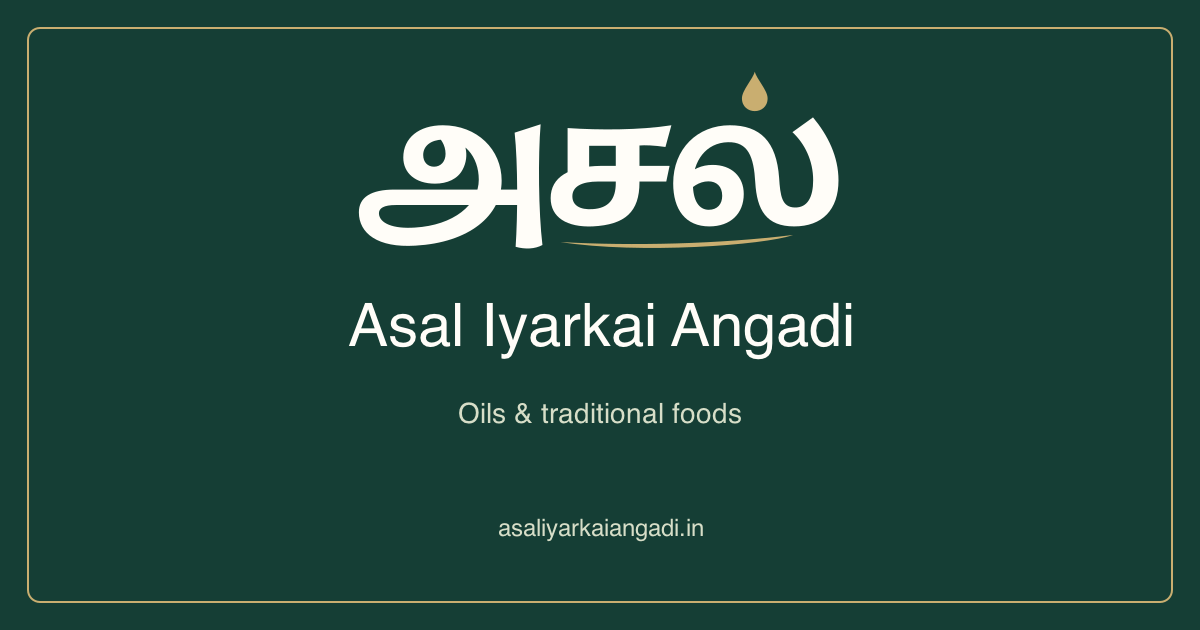
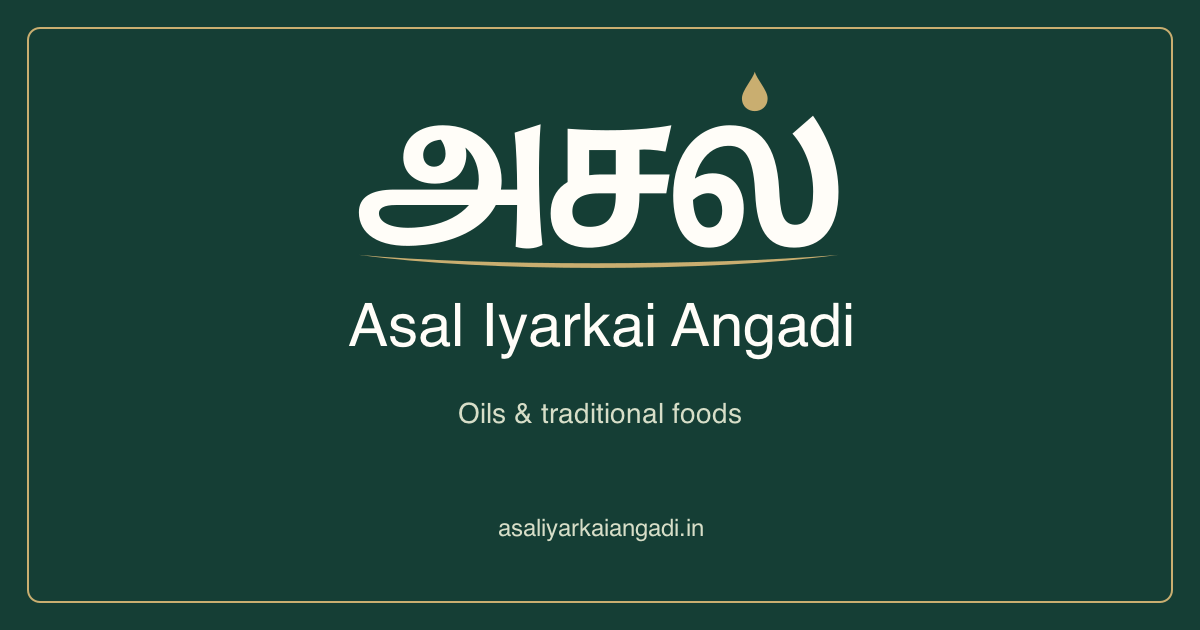
Refine full-card backgrounds and balance Tamil wordmark

Changed region(s): [[0.3392, 0.2111, 0.7092, 0.4524]]

diff --git a/src/app/heritage.css b/src/app/heritage.css
@@ -25,8 +25,8 @@
   .brand-intro .brand-word { font-size: var(--intro-word-size); }
   .brand-intro .brand-lettering .brand-oil-drop { visibility: hidden; }
   .brand-intro .brand-tagline { margin-top: 13px; font-size: .875rem; letter-spacing: 1px; }
-  /* Match the pulli's bounds in the 3040 × 1110 wordmark, not the wider lockup. */
-  .intro-oil-drip { position: absolute; top: calc(10 / 1110 * 100%); left: calc(2383 / 3040 * 100%); width: calc(156 / 3040 * 100%); height: calc(240 / 1110 * 100%); color: #a47b31; overflow: visible; transform-box: border-box; transform-origin: center bottom; animation: intro-drip 900ms 50ms both; }
+  /* Match the pulli's bounds in the 3040 × 1240 wordmark, not the wider lockup. */
+  .intro-oil-drip { position: absolute; top: calc(10 / 1240 * 100%); left: calc(2383 / 3040 * 100%); width: calc(156 / 3040 * 100%); height: calc(240 / 1240 * 100%); color: #a47b31; overflow: visible; transform-box: border-box; transform-origin: center bottom; animation: intro-drip 900ms 50ms both; }
   @keyframes intro-drip {
     0% { transform: translateY(calc(-50vh - 100%)); animation-timing-function: cubic-bezier(.4, 0, .8, .5); }
     78% { transform: translateY(0) scale(1); animation-timing-function: ease-out; }
@@ -43,19 +43,18 @@
     .intro-oil-drip { animation: none; }
   }
   .site-header { background: #fffdf8f7; }
-  .hero { grid-template-columns: 1.05fr 1fr; min-height: 490px; background: #f2eddf; border-radius: 4px; }
-  .hero-copy { padding: 46px 42px 38px; isolation: isolate; }
+  .hero { display: block; position: relative; isolation: isolate; min-height: 490px; background: #edf0dc; border-radius: 4px; }
+  .hero-backdrop { position: absolute; inset: 0; z-index: -1; overflow: hidden; pointer-events: none; user-select: none; }
+  .hero-backdrop > img { position: absolute; inset: -8px; width: calc(100% + 16px); max-width: none; height: calc(100% + 16px); object-fit: cover; object-position: center 58%; filter: blur(3px) saturate(.82); }
+  .hero-backdrop::after { content: ""; position: absolute; inset: 0; background: linear-gradient(90deg, #f8f7e8e6 0%, #f8f7e8c9 38%, #f2f2da52 72%, #f2f2da29 100%); }
+  .hero-copy { max-width: 610px; padding: 52px 48px 46px; isolation: isolate; }
   .hero-kolam { position: absolute; width: 88px; height: 88px; right: 24px; top: 18px; z-index: -1; }
   .hero-copy > .eyebrow { color: #77613d; font-size: .7rem; letter-spacing: 1.9px; }
   .hero-tamil { color: #756647; font-size: .85rem; margin-top: 17px; }
   .hero h1 { font-size: clamp(42px, 4.1vw, 60px); line-height: 1.15; letter-spacing: -1.9px; margin-block: 13px 20px; }
   .hero h1 em { color: #64744a; }
-  .hero-description { max-width: 365px; color: #5d6756; line-height: 1.85; }
-  .hero-footnote { color: #64705a; }
-  .hero-landscape { position: relative; min-height: 100%; overflow: hidden; }
-  .hero-landscape > img { width: 100%; height: 100%; position: absolute; inset: 0; object-fit: cover; object-position: 60% center; }
-  .hero-landscape figcaption { position: absolute; bottom: 0; inset-inline: 0; padding: 60px 28px 24px; color: white; font-family: var(--display); font-size: 1.5rem; background: linear-gradient(transparent, #202a17c7); }
-  .hero-landscape figcaption span { display: block; font-family: var(--sans); font-size: .7rem; margin-top: 5px; }
+  .hero-description { max-width: 420px; color: #3e503b; line-height: 1.85; }
+  .hero-footnote { color: #46573c; }
   .category-shelf { padding-block: 32px 12px; }
   .category-shelf-heading { display: flex; align-items: baseline; justify-content: space-between; gap: 20px; margin-bottom: 14px; }
   .category-shelf-heading h2 { font-size: clamp(23px, 2vw, 28px); letter-spacing: -.6px; }
@@ -112,8 +111,8 @@
   .product-category { color: #6d765e; font-size: .6875rem; letter-spacing: .3px; margin-bottom: 4px; }
   .product-add:active, .button:active { transform: translateY(1px); }
   .catalogue-note { color: #64705f; max-width: 860px; margin-inline: auto; }
-  .story-band { background: #f1f0e5; }
-  .story-inner { grid-template-columns: 1fr 1fr; align-items: center; gap: 72px; padding-block: 64px 45px; }
+  .story-band { margin-top: 56px; background: #f1f0e5; }
+  .story-inner { grid-template-columns: 1fr 1fr; align-items: center; gap: 72px; padding-block: 56px; }
   .story-photograph { position: relative; }
   .story-photograph > img { width: 100%; height: 360px; object-fit: cover; border-radius: 3px; }
   .story-photograph figcaption { font-size: .75rem; margin-top: 12px; color: #626b55; }
@@ -157,8 +156,8 @@
     .hero-kolam { width: 64px; height: 64px; right: 18px; top: 18px; }
     .hero-copy > .eyebrow, .hero-tamil { padding-right: 64px; }
     .hero h1 { font-size: clamp(36px, 9vw, 49px); letter-spacing: -1.3px; line-height: 1.18; }
-    .hero-landscape { min-height: 240px; }
-    .hero-landscape figcaption { font-size: 1.3rem; padding: 45px 24px 20px; }
+    .hero-backdrop > img { object-position: 54% center; }
+    .hero-backdrop::after { background: linear-gradient(110deg, #f8f7e8e6, #f8f7e8b8); }
     .category-shelf { padding-block: 26px 8px; }
     .category-shelf-heading { display: block; margin-bottom: 12px; }
     .category-shelf-heading p { margin-top: 6px; font-size: .75rem; }
@@ -182,7 +181,8 @@
     .product-card .save-button { width: 44px; height: 44px; }
     .list-view .product-info h3 { font-size: 1.125rem; }
     .list-view .product-tamil { font-size: .8rem; }
-    .story-inner { grid-template-columns: 1fr; padding-top: 38px; gap: 30px; }
+    .story-band { margin-top: 32px; }
+    .story-inner { grid-template-columns: 1fr; padding-block: 38px; gap: 30px; }
     .story-photograph > img { height: 280px; }
     .process-list { grid-template-columns: 1fr; gap: 20px; padding-bottom: 36px; }
     .process-list p { max-width: none; font-size: .875rem; }

diff --git a/src/components/Storefront.tsx b/src/components/Storefront.tsx
@@ -8,7 +8,7 @@ import { ArrowDown, ArrowRight, ArrowUpRight, Check, ChevronRight, Droplets, Hea
 import { products, productCategories, type Category, type Product } from "@/content/products";
 import { categoryImages } from "@/content/category-images";
 import { Catalogue } from "./Catalogue";
-import { Editorial } from "./Editorial";
+import { Editorial, NammalvarStory } from "./Editorial";
 import { StorefrontDialogs, type DialogState } from "./StorefrontDialogs";
 import { useCart } from "./CartProvider";
 import { Kolam, KolamDivider } from "./Kolam";
@@ -70,10 +70,11 @@ export default function Storefront({ initialCategory = "all" }: { initialCategor
     <main id="main">
       <div className="section-wrap"><nav className="breadcrumb" aria-label="Breadcrumb"><a href="/">Home</a><ChevronRight size={12} /><span aria-current="page">{isWoodOilsPage ? "Wood-pressed Oils" : "Our products"}</span></nav>
         <section className="hero" aria-labelledby="hero-title">
+          <div className="hero-backdrop" aria-hidden="true"><img src="/images/editorial/paddy-field.webp" alt="" width="1024" height="683" fetchPriority="high" /></div>
           <div className="hero-copy"><Kolam className="hero-kolam" /><p className="eyebrow">{isWoodOilsPage ? siteName : "FROM OUR PANTRY TO YOURS"}</p><p className="hero-tamil" lang="ta">அசல் இயற்கை அங்காடி</p><h1 id="hero-title">{isWoodOilsPage ? <>Wood-pressed oils.<br /><em>Rooted in tradition.</em></> : <>Asal Iyarkai<br /><em>Angadi.</em></>}</h1><p className="hero-description">{isWoodOilsPage ? "Wood-pressed groundnut, sesame and coconut oils, prepared using a wooden press. Explore listed prices and packs from 500 ml to 5 litres." : "Asal Iyarkai Angadi (Asaliyarkaiangadi) brings together cold-pressed and wood-pressed oils, ghee, masala and traditional rice. Everyday essentials with a little taste of home."}</p><a href="#collection" className="button button-green" onClick={() => setCategory(initialCategory)}>Explore the collection <ArrowDown size={17} /></a><div className="hero-footnote"><span className="small-leaf"><Leaf size={16} strokeWidth={1.4} /></span><span>Simple ingredients. Familiar rituals.</span></div></div>
-          <figure className="hero-landscape"><img src="/images/editorial/fields.webp" alt="Golden fields in the soft light of the setting sun" width="1400" height="788" fetchPriority="high" /><figcaption>Rooted in the everyday.<span>Landscape inspiration</span></figcaption></figure>
         </section>
       </div>
+      <NammalvarStory onGuide={guide} />
       <section className="category-shelf section-wrap" aria-labelledby="categories-title">
         <div className="category-shelf-heading"><h2 id="categories-title">Shop by category</h2><p>Find your everyday favourites.</p></div>
         <nav className="category-shortcuts" aria-label="Shop by category">
@@ -89,7 +90,7 @@ export default function Storefront({ initialCategory = "all" }: { initialCategor
       <div className="qualities section-wrap"><div><Sprout /><span>Cold-pressed oils</span></div><span className="quality-divider" /><div><Droplets /><span>Traditional rice varieties</span></div><span className="quality-divider" /><div><Sun /><span>Everyday kitchen essentials</span></div><span className="quality-divider" /><div><Heart /><span>Goodness, kept simple</span></div></div>
       <KolamDivider className="collection-divider" />
       <Catalogue saved={saved} onSave={toggleSaved} onExplore={explore} onGuide={guide} category={category} onCategory={setCategory} />
-      <Editorial onGuide={guide} />
+      <Editorial />
     </main>
     <footer className="site-footer"><div className="footer-inner section-wrap"><div className="footer-brand"><a href="/" className="brand footer-brand-mark" aria-label={`${siteName} home`}><BrandWordmark /></a><p>{siteName}<br />Nature, uncomplicated.</p><span className="footer-leaf"><Leaf size={17} /> Back to what’s real.</span></div><div className="footer-links"><h3>Find your goodness</h3>{productCategories.map(({ id, label }) => id === "wood-oils" ? <a key={id} href={woodOilsPath}>{label}</a> : <button key={id} onClick={() => goToCollection(id)}>{label}</button>)}</div><div className="footer-links"><h3>A little about us</h3><a href="#our-way">The Asal way</a><a href="#questions">Good to know</a><button onClick={() => setDialog({ type: "about" })}>About this store</button><button onClick={() => setDialog({ type: "ordering" })}>Ordering & delivery</button><a href="/credits">Image credits</a></div><div className="footer-signoff"><Kolam /><p>Good food.<br />Simple rituals.<br /><em>A little more real.</em></p></div></div><div className="footer-bottom section-wrap"><span>© 2026 {siteName}. A fresh beginning.</span><span>Thoughtfully designed. Rooted in nature.</span><span className="preview-tag"><span />Store preview</span><span className="footer-credit">Powered by <strong>Adplix Media</strong><img src="/adplix.svg" alt="" width="18" height="18" /></span></div></footer>
     <div className="sr-only" aria-live="polite">{announcement}</div>

diff --git a/src/app/imagery.css b/src/app/imagery.css
@@ -1,4 +1,4 @@
-/* Local, pre-optimized imagery. Preserve full subjects and honest captions. */
+/* Local, pre-optimized imagery. Product photos stay sharp; heritage art is decorative. */
 @layer components {
   .product-artwork { position: relative; display: block; width: 100%; height: 100%; overflow: hidden; background: #f6f2ea; }
   .product-artwork > img { display: block; width: 100%; height: 100%; object-fit: contain; }
@@ -22,33 +22,23 @@
   .story-photograph figcaption span { font-size: .6875rem; }
   .story-photograph a { text-decoration: underline; text-underline-offset: 3px; }
   .story-copy > .story-context { font-size: .6875rem; line-height: 1.7; margin-bottom: 0; }
-  /* Small discoveries within the catalogue, never a separate gallery. */
-  .catalogue-art { min-width: 0; width: 100%; align-self: center; }
-  .catalogue-art img { display: block; width: 100%; height: auto; aspect-ratio: 2528 / 1696; object-fit: contain; border-radius: 3px; }
-  .catalogue-art figcaption { margin-top: 10px; color: var(--muted); font-size: .6875rem; line-height: 1.7; }
-  .category-section-wood-oils .category-section-heading { align-items: center; }
-  .category-section-wood-oils .category-heading-copy { flex: 1; }
-  .catalogue-art-chekku { flex: 0 0 264px; max-width: 264px; margin-inline-start: 32px; }
-  .catalogue-art-bilona { grid-column: span 2; max-width: 400px; justify-self: center; }
-  .catalogue-art-cattle { max-width: 236px; justify-self: end; align-self: end; padding-bottom: 32px; }
-  .list-view .catalogue-art { grid-column: auto; max-width: 280px; padding: 16px; justify-self: center; align-self: center; }
+  /* A quiet wash behind each related section, never a product-grid item. */
+  .category-section { position: relative; isolation: isolate; }
+  .category-backdrop { position: absolute; inset: -20px -24px; z-index: -1; overflow: hidden; border-radius: 4px; pointer-events: none; user-select: none; }
+  .category-backdrop > img { display: block; position: absolute; inset: -8px; width: calc(100% + 16px); max-width: none; height: calc(100% + 16px); object-fit: cover; object-position: center; filter: blur(3px) saturate(.7); opacity: .44; }
+  .category-backdrop::after { content: ""; position: absolute; inset: 0; background: linear-gradient(90deg, #fffdf8f5 0%, #fffdf8b8 40%, #fffdf830 100%), linear-gradient(0deg, var(--paper), transparent 18%, transparent 82%, var(--paper)); }
+  .category-backdrop-bilona > img { object-position: center 58%; }
+  .category-backdrop-cattle > img { object-position: center 60%; }
 }
 
 @layer responsive {
-  @media (min-width: 701px) and (max-width: 960px) {
-    .product-grid:not(.list-view) .catalogue-art-cattle { grid-column: 2 / span 2; max-width: 264px; padding-bottom: 0; }
-  }
   @media (max-width: 700px) {
     .product-media { aspect-ratio: 4 / 3; }
     .product-artwork.detail-image-space { min-height: 240px; height: 240px; }
     .product-artwork.cart-image-space { height: 86px; }
-    .category-section-wood-oils .category-section-heading { flex-wrap: wrap; gap: 18px 12px; }
-    .category-section-wood-oils .category-heading-copy { flex-basis: calc(100% - 90px); }
-    .catalogue-art-chekku { flex-basis: 180px; max-width: 180px; margin-left: auto; }
-    .catalogue-art-bilona { grid-column: auto; }
-    .catalogue-art-cattle { align-self: center; padding-bottom: 0; }
-    .catalogue-art figcaption { font-size: .625rem; }
-    .list-view .catalogue-art { max-width: 240px; justify-self: end; padding: 8px 0 12px; }
+    .category-backdrop { inset: -16px -12px; }
+    .category-backdrop > img { opacity: .3; }
+    .category-backdrop::after { background: linear-gradient(90deg, #fffdf8e6, #fffdf866), linear-gradient(0deg, var(--paper), transparent 20%, transparent 80%, var(--paper)); }
     .story-photograph > img { height: auto; }
     .story-copy > .story-context { font-size: .6875rem; }
   }

diff --git a/src/content/brand-artwork.ts b/src/content/brand-artwork.ts
@@ -1,19 +1,21 @@
 /**
  * Asal's bespoke Tamil lettering: broad bowls, tapered joins and cut terminals.
  * Shared by the live wordmark and the generated social/logo artwork.
- * Keep the 3040 × 1110 canvas and pulli coordinates stable: the intro drop
- * lands in this exact position (see heritage.css and brand.test.mjs).
+ * The 3040 × 1240 canvas leaves room for a full-width curved underline.
+ * Keep the pulli coordinates stable: the intro drop lands in this exact
+ * position (see heritage.css and brand.test.mjs).
  */
 export const brandLetterPaths = [
   // அ — a generous lower bowl and a flared, gently bowed upright.
   "M397 1068C169 1082 54 994 54 865C54 774 127 727 271 727H1059L1059 821H278C206 821 174 840 176 874C180 932 261 967 395 958C629 944 783 820 783 667C783 526 693 420 564 423C492 425 445 461 445 517C445 561 473 588 511 588C552 588 581 556 581 510C581 454 549 414 522 391L626 362C707 418 729 523 685 605C655 663 591 691 517 691C398 691 324 627 324 532C324 412 420 336 564 336C773 336 922 483 922 673C922 886 724 1050 397 1068ZM1007 1075C1020 886 1021 567 1001 381L1159 330C1143 525 1146 864 1170 1064C1124 1089 1065 1091 1007 1075Z",
-  // ச — a scooped crown and a rounded, low-slung counter.
-  "M1475 951C1319 957 1220 897 1220 779C1220 651 1333 586 1523 583H1943L1923 678H1512C1403 678 1352 711 1352 768C1352 823 1398 851 1475 846C1572 840 1616 786 1616 686V461H1454V603L1323 642V353C1518 366 1762 366 1954 336L1918 468C1849 458 1791 456 1760 459V683C1760 862 1674 941 1475 951Z",
-  // ல — a deep inner curl and a rising, leaf-cut final stroke.
-  "M2185 951C2040 951 1965 849 1965 689C1965 478 2114 336 2309 336C2495 336 2593 435 2609 655C2616 766 2626 834 2704 836C2782 838 2816 773 2816 670C2816 551 2765 448 2690 378L2815 288C2906 397 2970 527 2970 671C2970 850 2871 951 2701 951C2531 951 2474 852 2464 683C2455 527 2421 436 2298 439C2164 442 2085 553 2085 693C2085 796 2123 850 2181 850C2234 850 2263 815 2263 765C2263 707 2228 677 2179 677C2122 677 2074 714 2046 751L2028 657C2083 601 2138 577 2205 577C2320 577 2394 648 2394 754C2394 873 2314 951 2185 951Z",
+  // ச — enlarged to match அ's crown and optical baseline.
+  "M1475 1080C1319 1087 1220 1015 1220 872C1220 717 1333 638 1523 635H1943L1923 750H1512C1403 750 1352 790 1352 859C1352 925 1398 959 1475 953C1572 946 1616 880 1616 759V487H1454V659L1323 706V357C1518 372 1762 372 1954 336L1918 496C1849 484 1791 481 1760 485V756C1760 972 1674 1068 1475 1080Z",
+  // ல — the same optical baseline, retaining the rising leaf-cut terminal.
+  "M2185 1080C2040 1080 1965 957 1965 763C1965 508 2114 336 2309 336C2495 336 2593 456 2609 722C2616 856 2626 938 2704 941C2782 943 2816 865 2816 740C2816 596 2765 471 2690 387L2815 278C2906 410 2970 567 2970 741C2970 958 2871 1080 2701 1080C2531 1080 2474 960 2464 756C2455 567 2421 457 2298 461C2164 464 2085 599 2085 768C2085 892 2123 958 2181 958C2234 958 2263 915 2263 855C2263 785 2228 749 2179 749C2122 749 2074 793 2046 838L2028 724C2083 657 2138 628 2205 628C2320 628 2394 713 2394 842C2394 986 2314 1080 2185 1080Z",
 ] as const;
 
 export const oilDropPath = "M2461 10C2450 55 2383 123 2383 172C2383 276 2539 276 2539 172C2539 123 2472 55 2461 10Z";
 
-// A fine closing stroke follows the low அ bowl; never part of the animation.
-export const brandFlourishPath = "M1280 1046C1721 1071 2243 1058 2694 1003C2523 1065 1757 1121 1280 1046Z";
+// One tapered gold curve spans அ through ல், clear of all three letters.
+// Never animate it or replace it with a straight rule.
+export const brandFlourishPath = "M54 1124C780 1192 2180 1192 2970 1124C2190 1230 820 1230 54 1124Z";

diff --git a/src/components/Editorial.tsx b/src/components/Editorial.tsx
@@ -8,9 +8,8 @@ const faqs = [
   { question: "Can I place an order on this website?", answer: "You can prepare your bag and review delivery details at checkout. Real payments and delivery orders are not yet available. Sandbox checkout may be enabled for testing. Delivery availability, charges and tax settings still need to be confirmed." },
 ];
 
-export function Editorial({ onGuide }: { onGuide: () => void }) {
-  return <>
-    <section className="story-band" id="our-way">
+export function NammalvarStory({ onGuide }: { onGuide: () => void }) {
+  return <section className="story-band" id="our-way" aria-labelledby="nammalvar-title">
       <div className="story-inner section-wrap">
         <figure className="story-photograph">
           <img src="/images/heritage/nammalvar.webp" alt="G. Nammalvar holding a wooden plough in a field" width="778" height="434" loading="lazy" decoding="async" />
@@ -20,14 +19,18 @@ export function Editorial({ onGuide }: { onGuide: () => void }) {
         </figure>
         <div className="story-copy">
           <p className="eyebrow">REMEMBERING A VOICE FOR THE SOIL</p>
-          <h2>Rooted in the land.<br /><em>Remembered at the table.</em></h2>
+          <h2 id="nammalvar-title">Rooted in the land.<br /><em>Remembered at the table.</em></h2>
           <p>G. Nammalvar was a Tamil natural-farming advocate who encouraged a closer relationship with the soil. We remember his contribution here as part of Tamil Nadu’s farming heritage.</p>
           <p className="story-tamil" lang="ta">அன்றாட உணவில், நம் பாரம்பரியம்.</p>
           <button className="text-link" onClick={onGuide}>Get to know the collection <ArrowUpRight size={19} /></button>
           <p className="story-context">An editorial remembrance, not an endorsement or affiliation.</p>
         </div>
       </div>
-    </section>
+    </section>;
+}
+
+export function Editorial() {
+  return <>
     <KolamDivider className="editorial-divider" />
     <section className="faq-section section-wrap" id="questions">
       <div className="faq-intro"><p className="eyebrow">A LITTLE CLARITY</p><h2>Good questions.<br />Simple answers.</h2><span className="faq-leaf" aria-hidden="true"><Leaf size={54} strokeWidth={1} /></span></div>

diff --git a/src/components/Catalogue.tsx b/src/components/Catalogue.tsx
@@ -77,15 +77,15 @@ export function Catalogue({ saved, onSave, onExplore, onGuide, category, onCateg
       </div>}
       {selected.length ? <div className="category-sections">
         {groups.map((group) => <section className={`category-section category-section-${group.id}`} key={group.id} aria-labelledby={`category-${group.id}-title`}>
+          {group.id === "wood-oils" && <HeritageIllustration subject="chekku" />}
+          {group.id === "ghee" && <HeritageIllustration subject="bilona" />}
+          {group.id === "milk" && <HeritageIllustration subject="cattle" />}
           <div className="category-section-heading">
             <div className="category-heading-copy"><p className="category-tamil" lang="ta">{group.tamilLabel}</p><h3 id={`category-${group.id}-title`}>{group.label}</h3><p className="category-description">{group.description}</p><p className="category-pack-sizes">Pack sizes: {categoryPackSizes[group.id].join(" · ")}</p></div>
             <span className="category-product-count">{group.products.length} {group.products.length === 1 ? "product" : "products"}</span>
-            {group.id === "wood-oils" && <HeritageIllustration subject="chekku" />}
           </div>
           <div className={`product-grid ${view === "list" ? "list-view" : ""}`}>
             {group.products.map((product) => <ProductCard key={product.id} product={product} saved={saved.includes(product.id)} onSave={() => onSave(product.id)} onExplore={() => onExplore(product)} />)}
-            {group.id === "ghee" && <HeritageIllustration subject="bilona" />}
-            {group.id === "milk" && <HeritageIllustration subject="cattle" />}
           </div>
         </section>)}
       </div> : <div className="empty-state"><Sprout size={36} strokeWidth={1.2} /><h3>{category === "saved" && saved.length === 0 ? "Keep your favourites close." : "Let’s find something else."}</h3><p>{category === "saved" && saved.length === 0 ? "Tap the heart on any product to save it here for later." : "No products match these filters. Try a different search or price."}</p><button className="button button-green" onClick={reset}>Explore all products <ArrowRight size={17} /></button></div>}

diff --git a/src/components/HeritageIllustration.tsx b/src/components/HeritageIllustration.tsx
@@ -1,30 +1,13 @@
-const illustrations = {
-  chekku: {
-    label: "The wooden chekku",
-    alt: "Illustration of a bullock turning a traditional wooden oil press in a shaded Tamil courtyard",
-  },
-  bilona: {
-    label: "Traditional bilona churning",
-    alt: "Illustration of hands working a rope-driven wooden churn in a terracotta pot, with butter in a brass bowl",
-  },
-  cattle: {
-    label: "A cow and her calf",
-    alt: "Illustration of a white zebu cow and calf resting beside a rural cattle shed",
-  },
-};
-
-export function HeritageIllustration({ subject }: { subject: keyof typeof illustrations }) {
-  const { label, alt } = illustrations[subject];
+export function HeritageIllustration({ subject }: { subject: "chekku" | "bilona" | "cattle" }) {
   const path = `/images/heritage/${subject}`;
-  return <figure className={`catalogue-art catalogue-art-${subject}`}>
+  return <div className={`category-backdrop category-backdrop-${subject}`} aria-hidden="true">
     <img
       src={`${path}-640.webp`}
       srcSet={`${path}-640.webp 640w, ${path}-1200.webp 1200w`}
-      sizes={subject === "bilona" ? "(max-width: 700px) 42vw, 400px" : "(max-width: 700px) 180px, 264px"}
+      sizes="(max-width: 700px) 100vw, (max-width: 1200px) 90vw, 1120px"
       width="2528" height="1696"
       loading="lazy" decoding="async"
-      alt={`${alt}. AI-generated heritage artwork, not a photograph of Asal’s production.`}
+      alt=""
     />
-    <figcaption>{label}</figcaption>
-  </figure>;
+  </div>;
 }

diff --git a/src/app/credits/page.tsx b/src/app/credits/page.tsx
@@ -25,6 +25,14 @@ export default function CreditsPage() {
         <p>Converted to WebP; uncropped. The photograph remains available under the same licence. Its use does not imply endorsement or affiliation.</p>
         <a className="text-link" href="/images/heritage/nammalvar.webp">View the photograph</a>
       </section>
+      <section aria-labelledby="landscape-credit">
+        <h2 id="landscape-credit">Paddy-field photograph</h2>
+        <p>The green paddy-field photograph was supplied by the site owner for this website and converted to WebP. It is used as an editorial landscape, not as a claim about farm ownership or product sourcing.</p>
+      </section>
+      <section aria-labelledby="heritage-credit">
+        <h2 id="heritage-credit">Heritage artwork</h2>
+        <p>The wooden press, bilona churn, and cow-and-calf backgrounds are AI-generated editorial illustrations. They are not photographs of Asal’s facilities, cattle, or production processes.</p>
+      </section>
     </main>
   </div>;
 }

diff --git a/src/components/BrandWordmark.tsx b/src/components/BrandWordmark.tsx
@@ -4,7 +4,7 @@ import { brandFlourishPath, brandLetterPaths, oilDropPath } from "@/content/bran
 export function BrandWordmark({ animateDrop = false }: { animateDrop?: boolean } = {}) {
   return <>
     <span className="brand-word brand-word-tamil" role="img" aria-label="அசல்" lang="ta">
-      <svg className="brand-lettering" viewBox="0 0 3040 1110" aria-hidden="true" focusable="false" fill="currentColor">
+      <svg className="brand-lettering" viewBox="0 0 3040 1240" aria-hidden="true" focusable="false" fill="currentColor">
         {brandLetterPaths.map((path, index) => <path key={index} d={path} />)}
         <path className="brand-flourish" d={brandFlourishPath} />
         <path className="brand-oil-drop" d={oilDropPath} />

diff --git a/docs/design-assets.md b/docs/design-assets.md
@@ -20,7 +20,12 @@ No visitor requests are made to Google's font service.
 `BrandWordmark.tsx` shares the Tamil அசல் logo across the header, footer, about
 dialog, product pages, cart/checkout and page intro. Its custom vector paths live
 in `src/content/brand-artwork.ts`: fuller bowls, tapered joins, a scooped crown,
-cut terminals and a fine closing stroke. The final ல் uses a pointed oil-drop
+cut terminals and a full-width tapered gold curve beneath all three letters.
+The ச and ல are enlarged vertically to share அ's optical baseline, rather
+than sitting smaller and higher. The curved underline starts at அ's left edge
+and finishes at ல்'s right edge, with clear space beneath the lettering.
+The taller 3040×1240 canvas prevents clipping, and the intro drop's proportional
+bounds are updated with it. The final ல் uses a pointed oil-drop
 pulli in the original position. The artwork is
 independent of font loading, retains an accessible Tamil label and has no raster
 scaling. It is not a new registration or certification claim.
@@ -46,17 +51,27 @@ animation, not a real progress indicator or payment/loading gate.
 
 ## Editorial photographs
 
-Downloaded from Unsplash's image CDN as WebP. They illustrate landscape and
-food culture, not Asal's farm, facilities, products, sourcing or certifications.
+These illustrate landscape and food culture, not Asal's farm, facilities,
+products, sourcing or certifications.
 
-- `public/images/editorial/fields.webp`: golden agricultural landscape at sunset.
-  Source: `https://images.unsplash.com/photo-1500382017468-9049fed747ef`
-- `public/images/editorial/kitchen-harvest.webp`: market vegetable baskets.
+- `public/images/editorial/paddy-field.webp`: the green paddy-field photo supplied
+  by the owner on November 9, 2026 (`codex-clipboard-19054a9c-4e42-4685-8fdc-57e4279a42dd.png`).
+  Converted to WebP quality 85/effort 6, 1024×683, without cropping the stored
+  image. The photograph covers the entire hero card as a decorative background,
+  not a separate right-hand image panel. It has a 3px blur, reduced saturation
+  and a continuous translucent cream overlay behind sharp text and controls.
+  The responsive cover crop is centred on the coconut palms, with a stronger
+  readability overlay on mobile. Its wrapper is aria-hidden with empty alt.
+  This replaces the previous Unsplash sunset image, which has been removed.
+  Original photographer, location and licence were not supplied; no authorship,
+  licence or ownership claim is added. Provenance is recorded on `/credits`.
+- `public/images/editorial/kitchen-harvest.webp`: unused legacy market vegetable
+  baskets, downloaded from Unsplash's image CDN.
   Source: `https://images.unsplash.com/photo-1464226184884-fa280b87c399`
 - Licence reference: `https://unsplash.com/license`
 
-Replace these with owner-supplied lifestyle photographs when available. Do not
-use them on product cards or imply that the vegetables are in the catalogue.
+Do not use editorial landscapes on product cards or imply that the legacy
+vegetable photograph depicts products in the catalogue.
 
 ## Category photographs
 
@@ -203,13 +218,16 @@ Use owner-supplied product photography to replace these when available.
 Prompt direction: fine gouache/coloured-pencil editorial illustration, landscape
 3:2, ivory, forest green and ochre, quiet rural composition; no logo or text.
 Originals are 2528×1696, resized without cropping to widths 640/1200 and WebP
-quality 83/effort 6. At the owner's direction there is no standalone gallery:
-chekku sits beside the wood-oils heading, bilona beside the ghee product, and
-cow/calf artwork occupies the breathing room near dairy products. These small,
-varied placements use full images, not background crops. Captions name only the
-subject; AI-illustration labels and the catalogue image disclosure are removed
-at the owner's request. Image alt text and this provenance record distinguish
-the artwork from Asal's facilities, cattle or actual production processes.
+quality 83/effort 6. At the owner's direction there is no standalone gallery or
+freestanding artwork: chekku is the wood-oils section background, bilona the
+ghee background, and cow/calf the milk-products background. Absolute decorative
+layers sit outside the product grid, with cover crops, a 3px blur, reduced
+saturation and a cream wash. Only the background image is blurred; product
+cards, headings, prices and controls remain sharp. Mobile uses a softer wash
+and clipped background layers without clipping controls or focus rings.
+Decorative images have empty alt text and an aria-hidden wrapper, with no
+captions. The generated provenance remains in this record and on `/credits`,
+not as labels on the shopping surfaces.
 
 ### Nammalvar photograph — CC BY-SA 3.0
 
@@ -224,6 +242,9 @@ the artwork from Asal's facilities, cattle or actual production processes.
 - The caption now shows only Nammalvar's name and dates. Attribution, source,
   licence and encoding details live on `/credits`, linked from the storefront
   footer. The complete image remains visible at all viewport sizes.
+- The remembrance now appears directly after the hero, before category
+  shortcuts and products. The FAQ stays below the catalogue, and the existing
+  `#our-way` navigation still targets the remembrance.
 
 G. Nammalvar (1938–2013) is presented in a neutral editorial remembrance of his
 natural-farming advocacy. No quote, commercial endorsement or affiliation is
